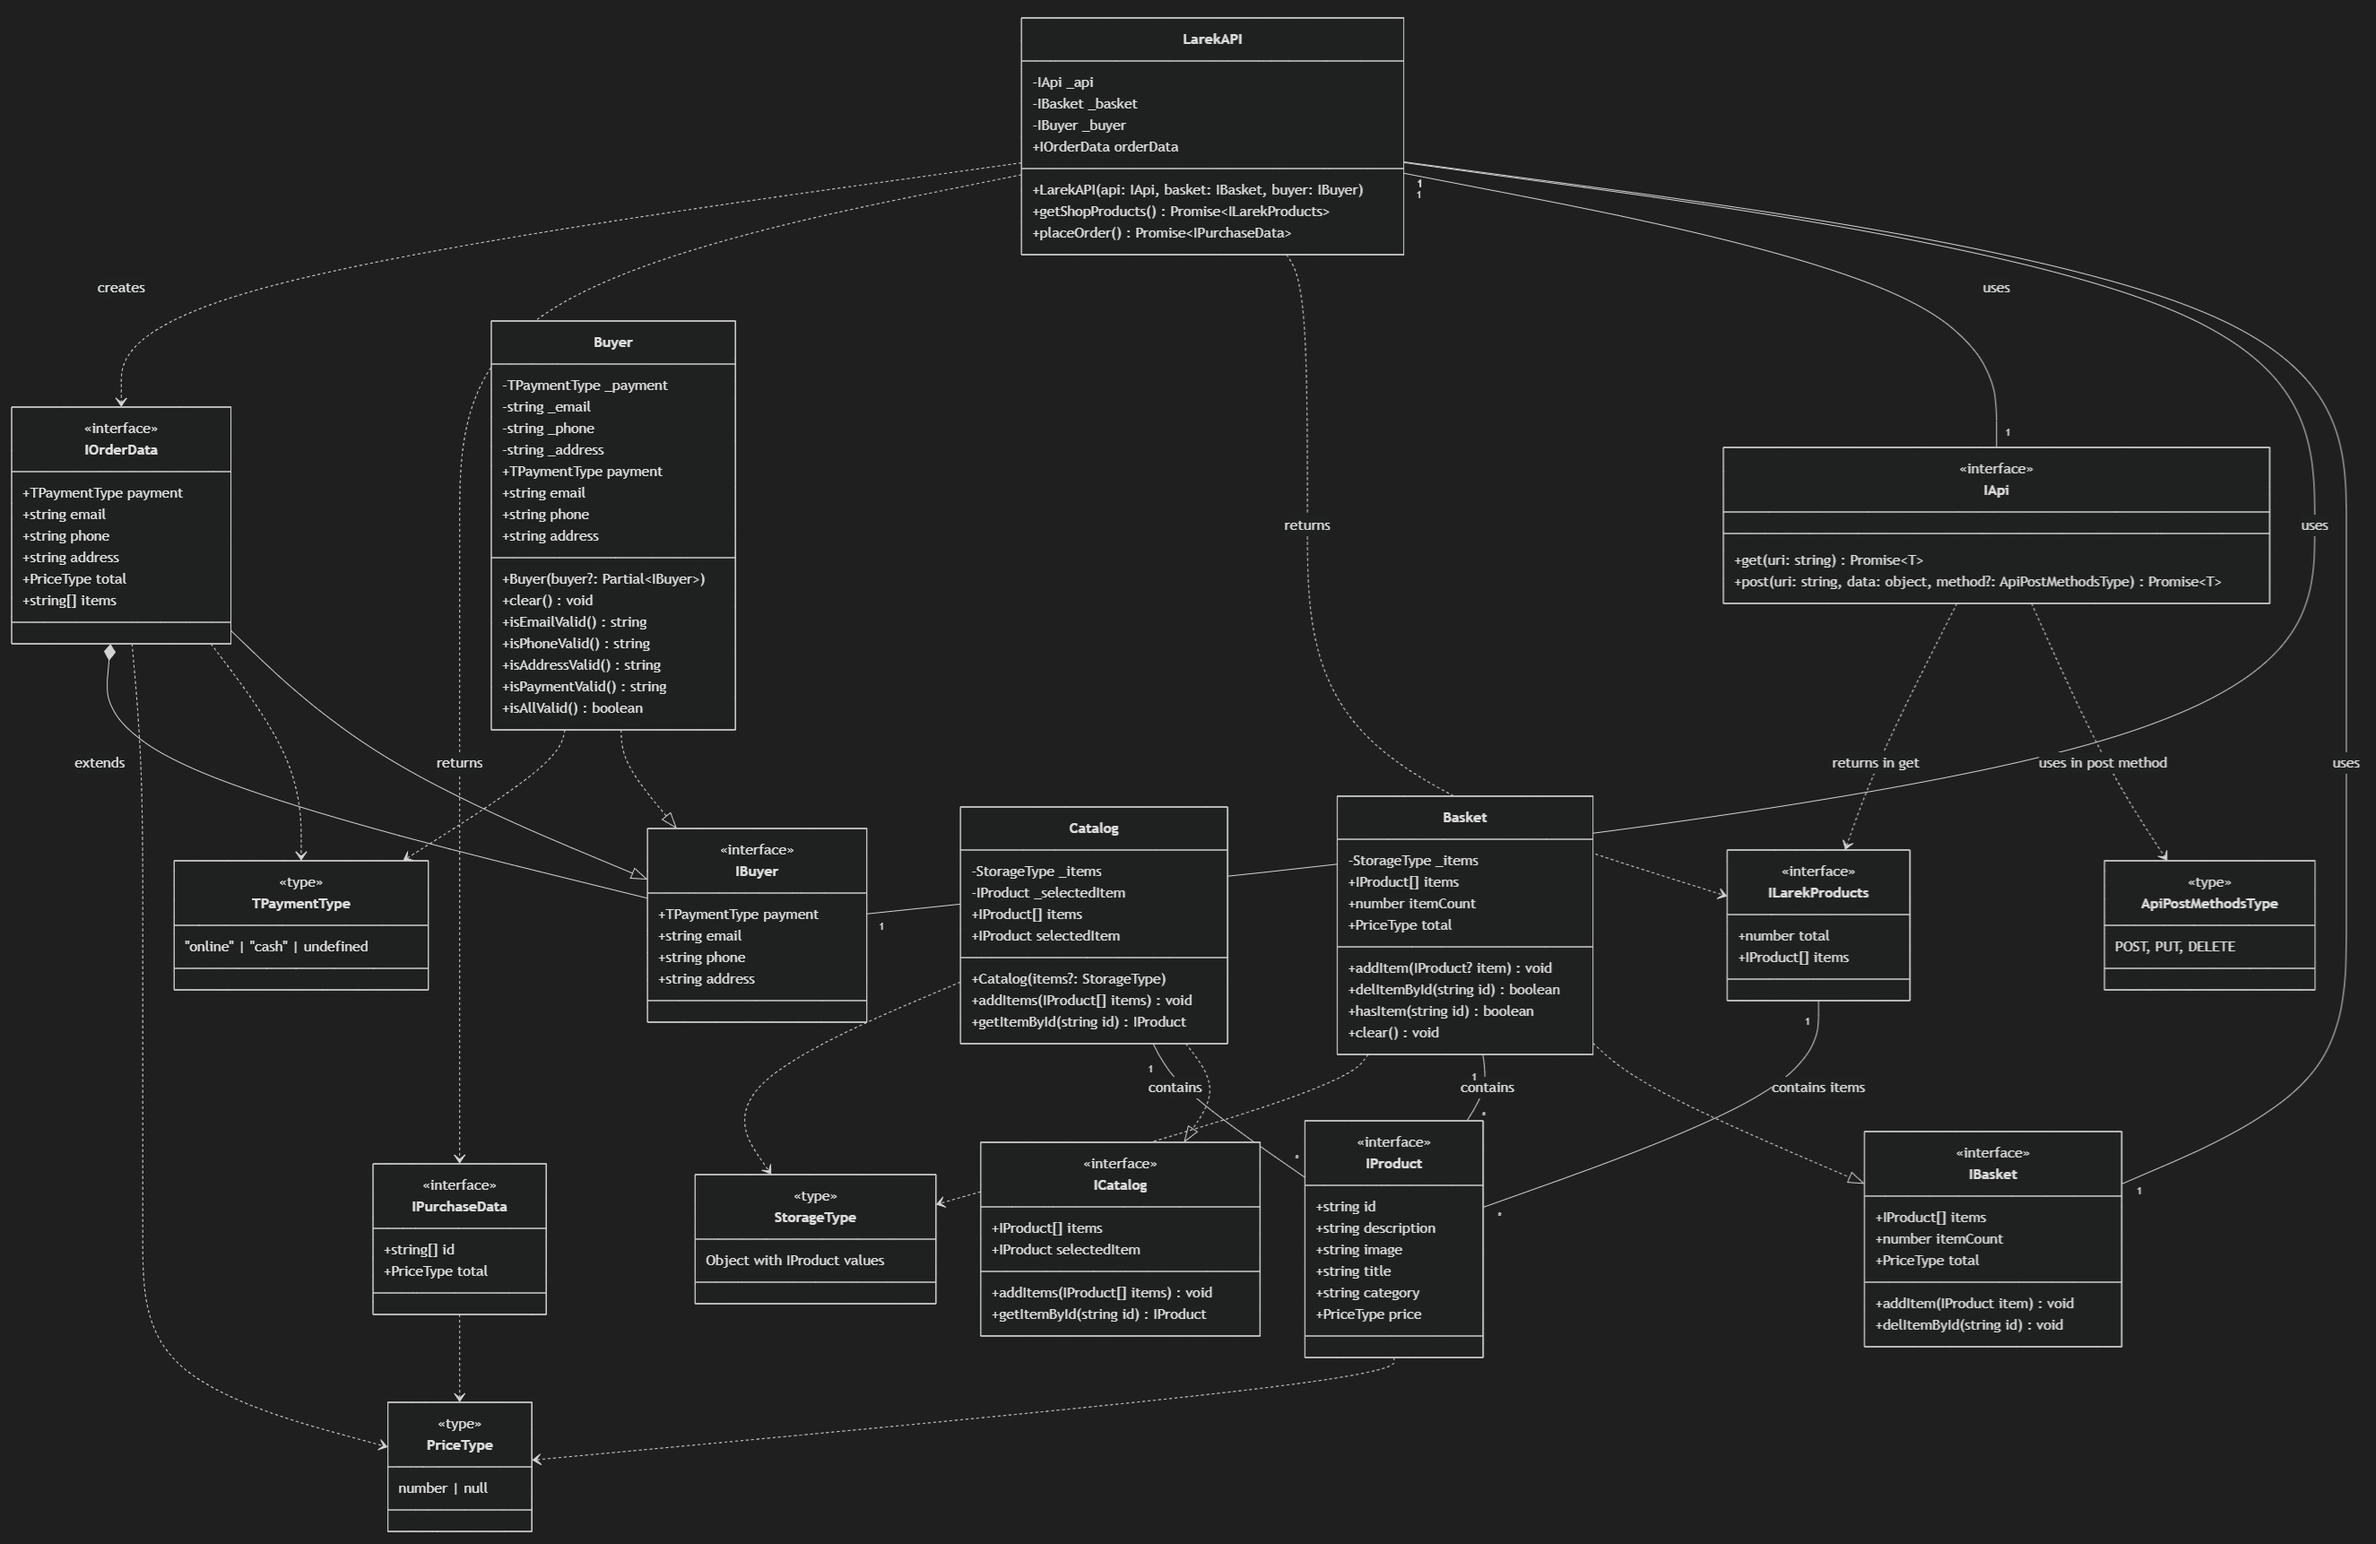
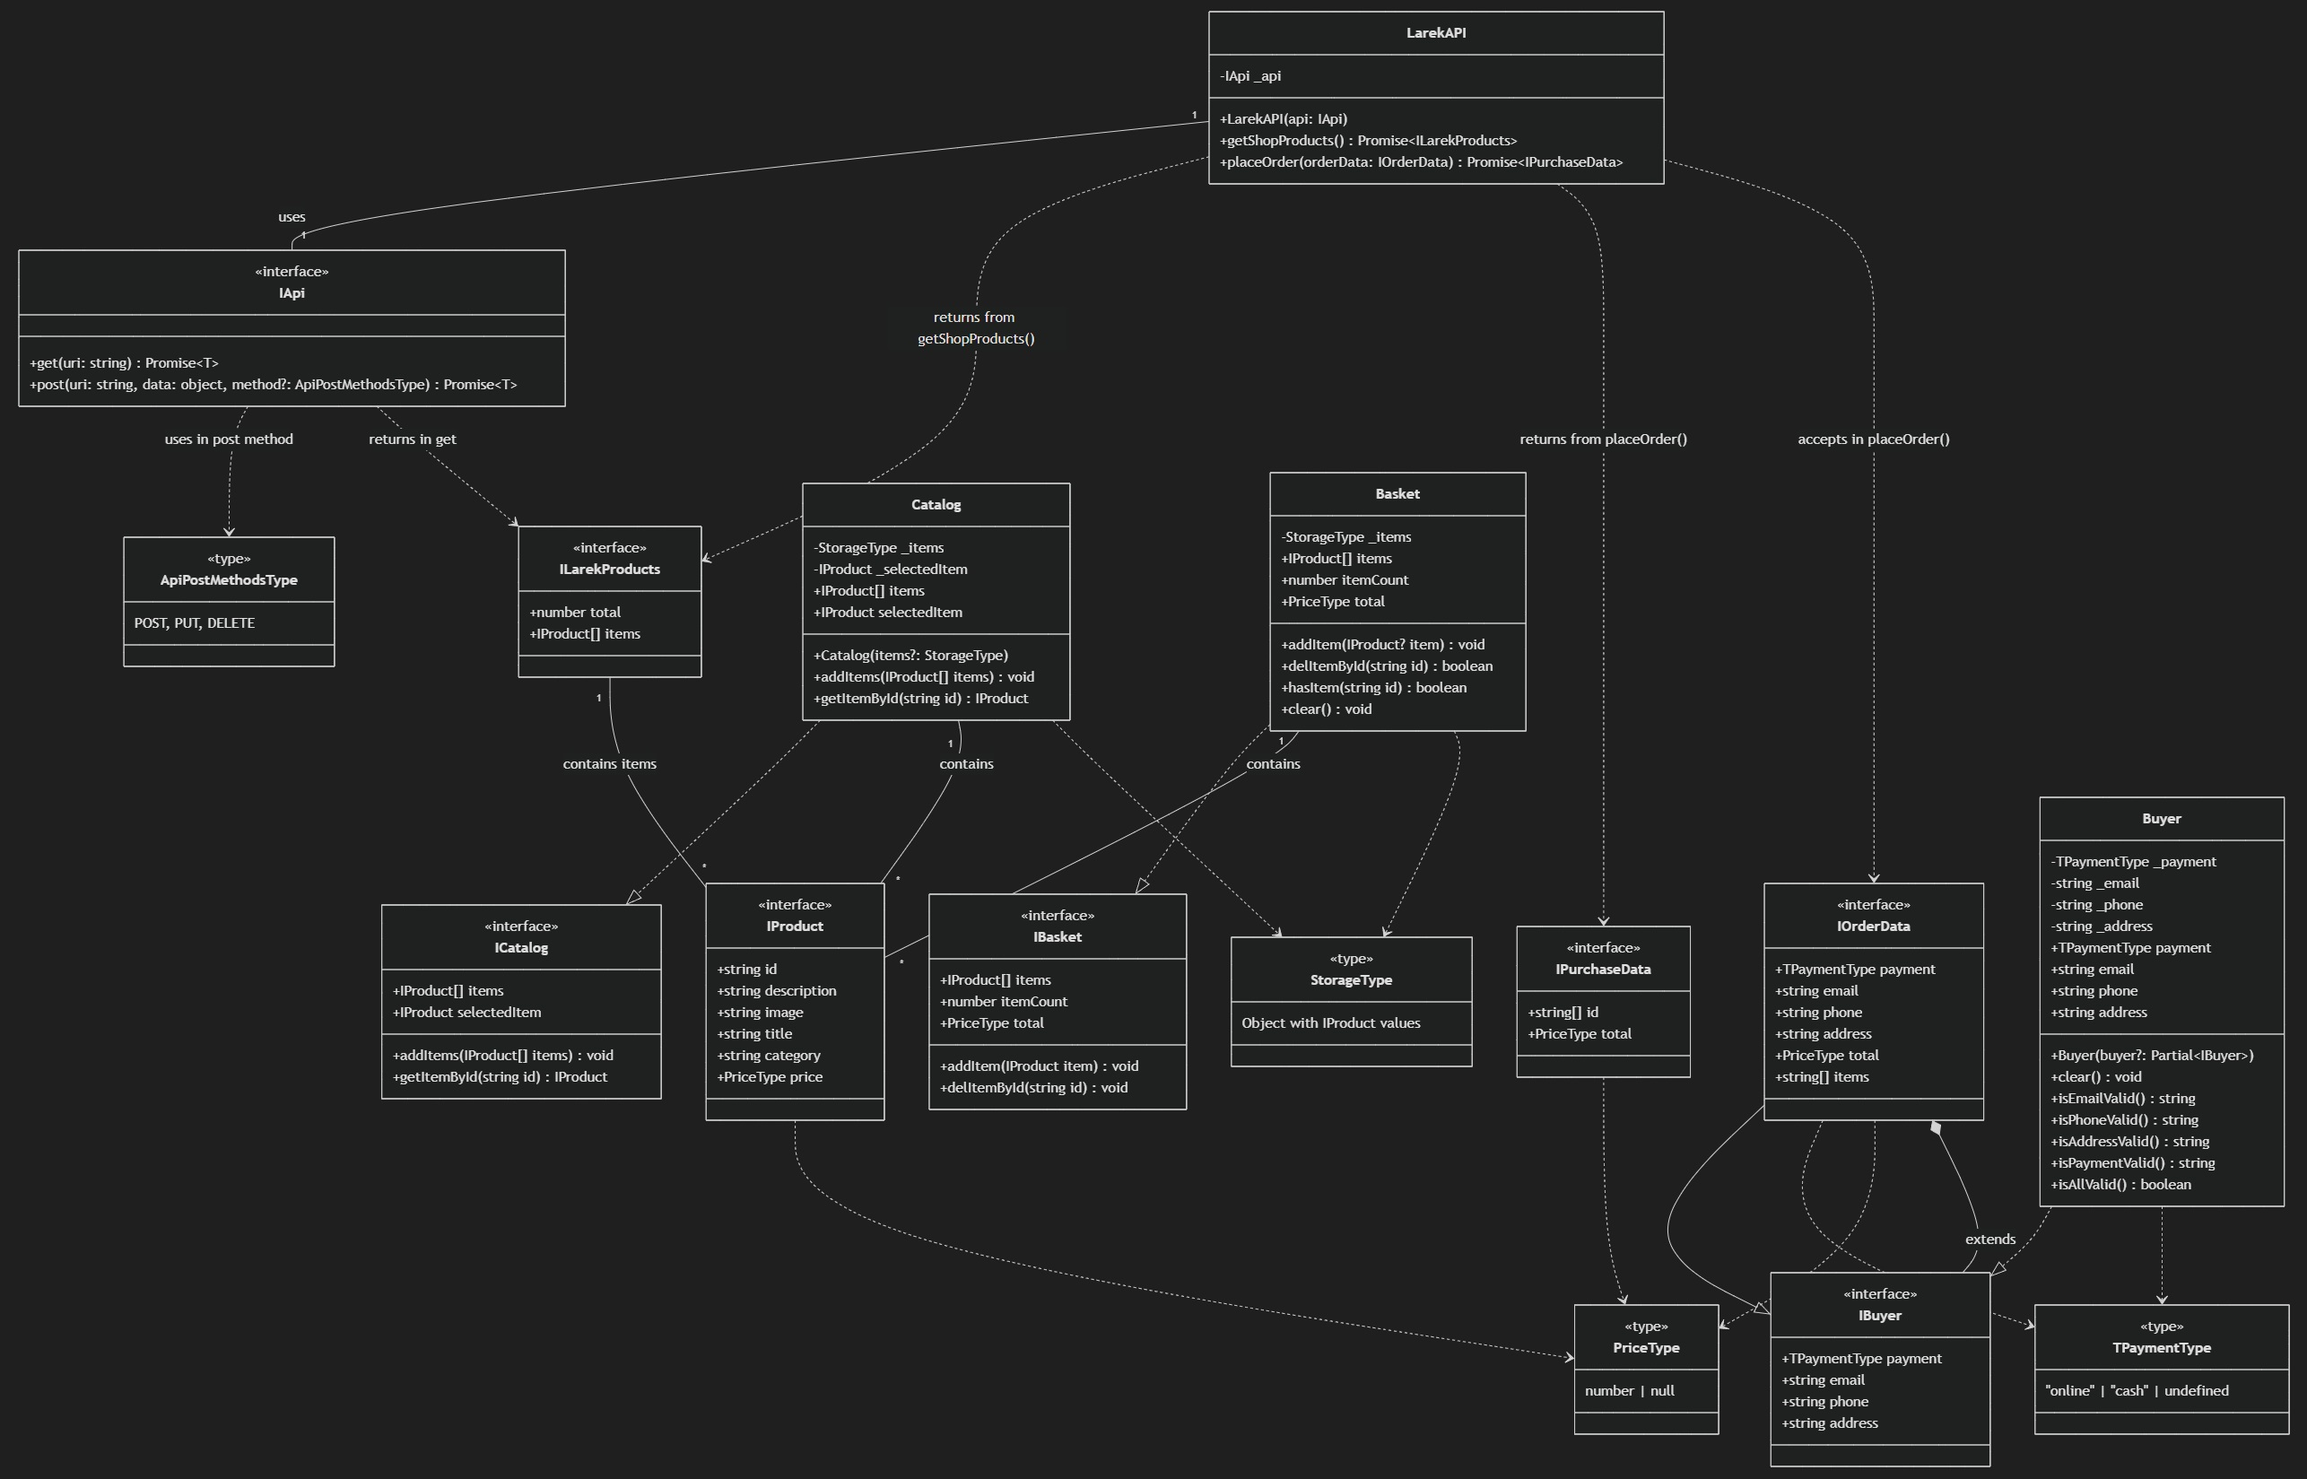
rс3.27

diff --git a/src/components/models/larekAPI.ts b/src/components/models/larekAPI.ts
@@ -4,32 +4,9 @@ import { URI_PRODUCTS, URI_ORDER } from "../../utils/constants";
 /** API 
  * Специализированный класс для работы с API WEBLAREK (работа с товарами) */
 export class LarekAPI {
-  protected _api: IApi;
-  protected _basket: IBasket;
-  protected _buyer: IBuyer;
 
   /** API-конструктор */
-  constructor(api: IApi, basket: IBasket, buyer: IBuyer) {
-    this._api = api;
-    this._basket = basket;
-    this._buyer = buyer;
-  }
-
-  /** Формирование данных для тела запроса */
-  get orderData(): IOrderData {
-    // Массив id товаров корзины
-    const ids: string[] = Object.values(this._basket.items)
-      .map(item => item.id);
-    return {
-      // Данные покупателя
-      payment: this._buyer.payment,
-      email: this._buyer.email,
-      phone: this._buyer.phone,
-      address: this._buyer.address,
-      // Данные корзины
-      total: this._basket.total,
-      items: ids,
-    };
+  constructor(protected _api: IApi) {
   }
 
   /** Запрос списка товаров из ларька (с сервера) */
@@ -38,10 +15,10 @@ export class LarekAPI {
   }
 
   /** Запрос на оформление заказа (покупки) */
-  placeOrder(): Promise<IPurchaseData> {
+  public placeOrder(orderData: IOrderData): Promise<IPurchaseData> {
     return this._api.post<IPurchaseData>(
       URI_ORDER,
-      this.orderData,
+      orderData,
       'POST'
     );
   }

diff --git a/src/main.ts b/src/main.ts
@@ -1,6 +1,6 @@
 import './scss/styles.scss';
 
-import { IBuyer, ILarekProducts, IPurchaseData } from './types';
+import { IBuyer, ILarekProducts, IOrderData, IPurchaseData } from './types';
 import { apiProducts } from './utils/data';
 import { Api } from './components/base/Api';
 
@@ -85,12 +85,23 @@ console.groupEnd(); // ПОКУПАТЕЛЬ
 //* API ----------------------------------------------
 
 const api = new Api(API_URL);
-const productsAPI = new LarekAPI(api, basket, buyer);
+const orderData: IOrderData = // данные для запроса на оформление заказа
+{
+  // Данные покупателя
+  payment: buyer.payment,
+  email: buyer.email,
+  phone: buyer.phone,
+  address: buyer.address,
+  // Данные корзины
+  total: basket.total,
+  items: Object.values(basket.items).map(item => item.id),
+};
+const productsAPI = new LarekAPI(api);
 console.group('API');
 productsAPI.getShopProducts()
   .then((data: ILarekProducts) => console.log('Товары в ларьке:\n', data))
   .catch((err: Response) => console.error(err));
-productsAPI.placeOrder()
+productsAPI.placeOrder(orderData)
   .then((data: IPurchaseData) => console.log('Заказ оформлен успешно\n', data))
   .catch((err: Response) => console.error(err));
 

diff --git a/README.md b/README.md
@@ -280,23 +280,20 @@ yarn build
 
 ##### Реализация
 
-Реализует композицию объектов типов `IApi`, `IBasket`, `IBuyer` и собственные методы на его основе.
+Реализует композицию объекта типа `IApi` и собственные методы на его основе.
 
 ##### Конструктор
 
-Принимает объекты типов `IApi`, `IBasket`, `IBuyer` и сохраняет ссылки на них в защищенных полях `_api`, `_basket` и `_buyer`, соответственно.
+Принимает объект типа `IApi` и сохраняет его в защищенном поле `_api`.
 
 ##### Поля
 
 - `_api` - ссылка на объект типа `IApi`, реализующий универсальные методы запроса данных.
-- `_basket` - ссылка на объект типа `IBasket`, позволяющий получить данные о корзине товаров типа `IProduct`
-- `_buyer` - ссылка на объект типа `IBuyer`, позволяющий получить данные о покупателе типа `IBuyer`
 
 ##### Методы
 
 - `getShopProducts` - метод get-запроса массива товаров для отображения в каталоге (в случае успеха `getShopProducts` возврает промис данных типа `ILarekProducts`, в противном случае - данные об ошибке типа `Response`);
-- `placeOrder` - метод post-запроса на оформление заказа (покупки), передающий в его теле объект типа `IOrderData` с данными о заказе (объект с данными о заказе формируется геттером `orderData`). В случае успеха данный метод возврает промис с данными о регистрации заказа (покупке) типа `IPurchaseData` или данными об ошибке типа `Response`).
-- `orderData` - метод, формирующий на основе данных корзины (`_basket`) и покупателя (`_buyer`) объект данных типа `IOrderData`, отправляемый в теле post-запроса на оформление заказа (покупки).
+- `placeOrder(orderData: IOrderData)` - метод post-запроса на оформление заказа (покупки), принимающий `orderData` - сводные данные типа `IOrderData` о заказе (данные покупателя и его корзины), которые он передает в теле запроса на оформление заказа. В случае успеха данный метод возврает промис с данными о регистрации заказа (покупке) типа `IPurchaseData` или данными об ошибке типа `Response`.
 
 ### UML-диаграама приложения
 

diff --git a/src/public/app-uml.md b/src/public/app-uml.md
@@ -129,12 +129,9 @@ classDiagram
 
     class LarekAPI {
         -IApi _api
-        -IBasket _basket
-        -IBuyer _buyer
-        +LarekAPI(api: IApi, basket: IBasket, buyer: IBuyer)
-        +IOrderData orderData
+        +LarekAPI(api: IApi)
         +getShopProducts() Promise~ILarekProducts~
-        +placeOrder() Promise~IPurchaseData~
+        +placeOrder(orderData: IOrderData) Promise~IPurchaseData~
     }
 
     %% Наследование интерфейсов
@@ -148,11 +145,9 @@ classDiagram
     %% Ассоциации
     Basket "1" -- "*" IProduct : contains
     Catalog "1" -- "*" IProduct : contains
-    LarekAPI "1" -- "1" IBasket : uses
-    LarekAPI "1" -- "1" IBuyer : uses
     LarekAPI "1" -- "1" IApi : uses
 
-    %% Зависимости (добавлены связи с ILarekProducts и ApiPostMethodsType)
+    %% Зависимости
     Basket ..> StorageType
     Catalog ..> StorageType
     IOrderData ..> TPaymentType
@@ -161,9 +156,10 @@ classDiagram
     IProduct ..> PriceType
     Buyer ..> TPaymentType
     
-    %% Связи LarekAPI с ILarekProducts
-    LarekAPI ..> ILarekProducts : returns
-    LarekAPI ..> IPurchaseData : returns
+    %% Связи LarekAPI с возвращаемыми типами
+    LarekAPI ..> ILarekProducts : returns from getShopProducts()
+    LarekAPI ..> IPurchaseData : returns from placeOrder()
+    LarekAPI ..> IOrderData : accepts in placeOrder()
     
     %% Связи IApi с типами
     IApi ..> ApiPostMethodsType : uses in post method
@@ -171,9 +167,6 @@ classDiagram
     
     %% Связи ILarekProducts с IProduct
     ILarekProducts "1" -- "*" IProduct : contains items
-    
-    %% Связи методов LarekAPI
-    LarekAPI ..> IOrderData : creates
 
     %% Композиция
     IOrderData *-- IBuyer : extends
